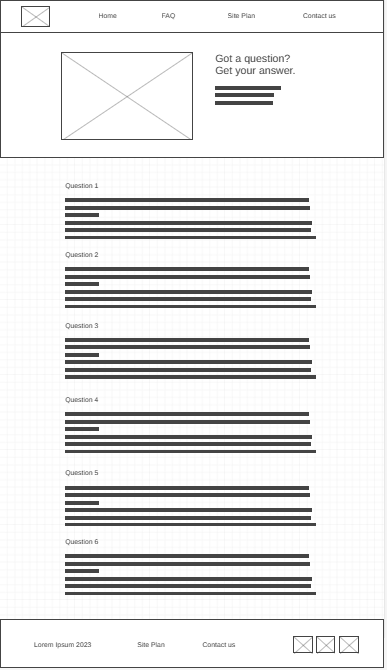
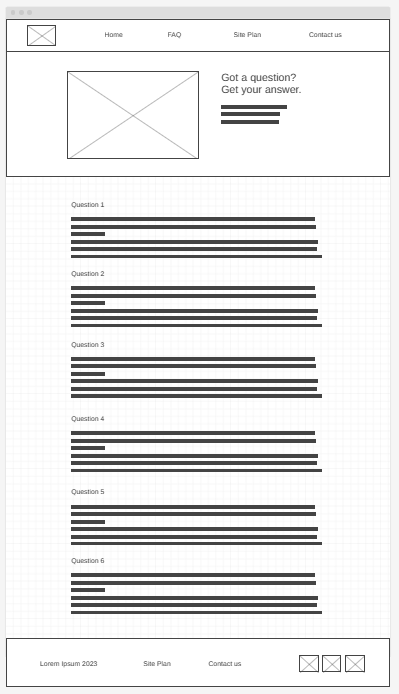
contact us page added

Changed region(s): [[0.155, 0.2687, 0.8062, 0.8955], [0.0, 0.0, 0.9922, 0.2687], [0.0, 0.9254, 0.9922, 1.0]]

diff --git a/wwr/contactus.html b/wwr/contactus.html
@@ -1,0 +1,91 @@
+<!DOCTYPE html>
+<html lang="en">
+<head>
+    <meta charset="UTF-8">
+    <meta name="viewport" content="width=device-width, initial-scale=1.0">
+    <title>Contact Us</title>
+    <link rel="stylesheet" href="styles/style.css">
+</head>
+
+<body>
+    
+    <div id="content">
+
+        <header>
+
+            <a id="logo_link" href="index.html">
+                <img class="logo" src="images/logo.png" alt="Dry Oar Logo">
+            </a>
+            <nav>
+                <a href="index.html">Home</a>
+                <a href="FAQ.html">FAQ</a>
+                <a href="site-plan-rafting.html">Site Plan</a>
+                <a href="contactus.html">Contact Us</a>
+            </nav>
+
+        </header>
+
+        <main>
+
+            <div id="feedback"></div>
+            <form action="/my-handling-form-page" method="post">
+                <ul>
+                  <li>
+                    <label for="name">Name:</label>
+                    <input type="text" id="name" name="user_name" />
+                  </li>
+                  <li>
+                    <label for="mail">Email:</label>
+                    <input type="email" id="mail" name="user_email" />
+                  </li>
+                  <li>
+                    <label for="msg">Message:</label>
+                    <textarea id="msg" name="user_message"></textarea>
+                  </li>
+                  <li class="button">
+                    <button type="submit">Send your message</button>
+                  </li>
+                </ul>
+              </form>
+
+              <script>
+                // get the feedback div element so we can do something with it.
+                const feedbackElement = document.getElementById('feedback');
+                // get the form so we can read what was entered in it.
+                const formElement = document.forms[0];
+                // add a 'listener' to wait for a submission of our form. When that happens run the code below.
+                formElement.addEventListener('submit', function(e) {
+                    // stop the form from doing the default action.
+                    e.preventDefault();
+                    // set the contents of our feedback element to a message letting the user know the form was submitted successfully. Notice that we pull the name that was entered in the form to personalize the message!
+                    feedbackElement.innerHTML = 'Hello '+ formElement.user_name.value +'! Thank you for your message. We will get back with you as soon as possible!';
+                    // make the feedback element visible.
+                    feedbackElement.style.display = "block";
+                    // add a class to move everything down so our message doesn't cover it.
+                    document.body.classList.toggle('moveDown');
+                });
+            </script>
+
+        </main>
+
+        <footer>
+            <p>Splash White Water Rafting &copy; 2023 - Christian Ahanonu</p>
+            <p><a href="site-plan-rafting.html">Site Plan</a></p>
+            <p><a href="contactus.html">Contact Us</a></p>
+            <div class="social">
+                <a href="https://facebook.com" target="_blank">
+                    <img src="images/facebook.png" alt="fb icon">
+                </a>
+                <a href="https://twitter.com" target="_blank">
+                    <img src="images/twitter.png" alt="twitter icon">
+                </a>
+                <a href="https://instagram.png" target="_blank">
+                    <img src="images/instagram.png" alt="instagram icon">
+                </a>
+            </div>
+        </footer>
+        
+    </div>
+</body>
+
+</html>

diff --git a/wwr/styles/style.css b/wwr/styles/style.css
@@ -297,8 +297,8 @@ footer .social img {
 }
 
 
-/* styling for the button */
-.accordion {
+        /* styling for the button */
+.accordion { 
     background-color: #232863;;
     color: white;
     cursor: pointer;
@@ -315,12 +315,12 @@ footer .social img {
     font-weight: 599;
   }
 
-  /* background color when you click on the button  */
+        /* background color when you click on the button  */
   .active, .accordion:hover {
     background-color: #498c8a;
   }
 
-  /* styling for the panel */
+        /* styling for the panel */
   .panel {
     padding: 0 18px;
     background-color: rgb(251, 251, 251);
@@ -331,7 +331,7 @@ footer .social img {
     font-family: montserrat, arial, sans-serif;
   }
 
-  /* styling for the + and - icons */
+        /* styling for the + and - icons */
   .accordion:after {
     content: '\02795'; /* Unicode character for "plus" sign (+) */
     font-size: 13px;
@@ -344,6 +344,90 @@ footer .social img {
     content: "\2796"; /* Unicode character for "minus" sign (-) */
   }
 
+
+
+/* Styling for the Contact Us Page  */
+
+form {
+    /* Center the form on the page */
+    margin: 0 auto;
+    width: 400px;
+    /* Form outline */
+    padding: 1em;
+    border: 1px solid #ccc;
+    border-radius: 1em;
+  }
+  
+  ul {
+    list-style: none;
+    padding: 0;
+    margin: 0;
+  }
+  
+  form li + li {
+    margin-top: 1em;
+  }
+  
+  label {
+    /* Uniform size & alignment */
+    display: inline-block;
+    width: 90px;
+    text-align: right;
+  }
+  
+  input,
+  textarea {
+    /* To make sure that all text fields have the same font settings
+       By default, textareas have a monospace font */
+    font: 1em sans-serif;
+  
+    /* Uniform text field size */
+    width: 300px;
+    box-sizing: border-box;
+  
+    /* Match form field borders */
+    border: 1px solid #999;
+  }
+  
+  input:focus,
+  textarea:focus {
+    /* Additional highlight for focused elements */
+    border-color: #000;
+  }
+  
+  textarea {
+    /* Align multiline text fields with their labels */
+    vertical-align: top;
+  
+    /* Provide space to type some text */
+    height: 5em;
+  }
+  
+  .button {
+    /* Align buttons with the text fields */
+    padding-left: 90px; /* same size as the label elements */
+  }
+  
+  button {
+    /* This extra margin represent roughly the same space as the space
+       between the labels and their text fields */
+    margin-left: 0.5em;
+  }
+  
+  #feedback {
+    background-color: antiquewhite;
+    position: absolute;
+    top: 0;
+    left: 0;
+    right: 0;
+    padding: .5em;
+    /* make this element invisible until we are ready for it */
+    display: none;      
+  }
+
+.moveDown {
+    margin-top: 3em;
+}
 
 
 
